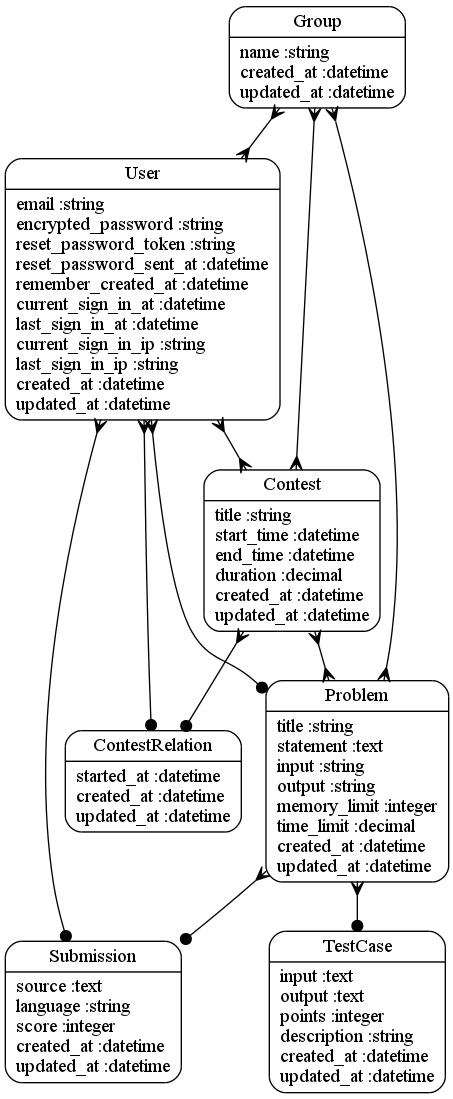
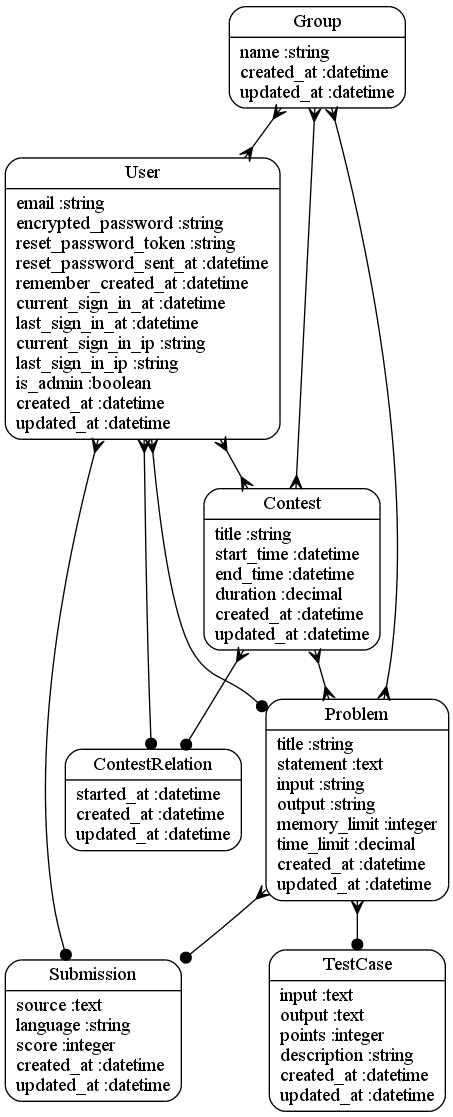
added admins

diff --git a/db/schema.rb b/db/schema.rb
@@ -89,8 +89,8 @@ ActiveRecord::Schema.define(:version => 20111002021523) do
   end
 
   create_table "users", :force => true do |t|
-    t.string   "email",                                 :default => "", :null => false
-    t.string   "encrypted_password",     :limit => 128, :default => "", :null => false
+    t.string   "email",                                 :default => "",    :null => false
+    t.string   "encrypted_password",     :limit => 128, :default => "",    :null => false
     t.string   "reset_password_token"
     t.datetime "reset_password_sent_at"
     t.datetime "remember_created_at"
@@ -99,7 +99,7 @@ ActiveRecord::Schema.define(:version => 20111002021523) do
     t.datetime "last_sign_in_at"
     t.string   "current_sign_in_ip"
     t.string   "last_sign_in_ip"
-    t.boolean  "is_admin"
+    t.boolean  "is_admin",                              :default => false
     t.datetime "created_at"
     t.datetime "updated_at"
   end

diff --git a/app/models/user.rb b/app/models/user.rb
@@ -5,7 +5,7 @@ class User < ActiveRecord::Base
          :recoverable, :rememberable, :trackable, :validatable
 
   # Setup accessible (or protected) attributes for your model
-  attr_accessible :email, :password, :password_confirmation, :remember_me
+  attr_accessible :email, :password, :password_confirmation, :remember_me, :is_admin
 
   has_many :problems
   has_many :submissions

diff --git a/config/routes.rb b/config/routes.rb
@@ -13,9 +13,9 @@ NztrainV2::Application.routes.draw do
 
   resources :test_cases
 
-  #resources :users
+  resources :users
 
-  devise_for :users
+  devise_for :users, :path => "accounts"
 
   match 'problem_contest/:action(:format)' => "problem_contest"
 

diff --git a/db/migrate/20110819224757_devise_create_users.rb b/db/migrate/20110819224757_devise_create_users.rb
@@ -6,7 +6,7 @@ class DeviseCreateUsers < ActiveRecord::Migration
       t.rememberable
       t.trackable
       
-      t.boolean :is_admin
+      t.boolean :is_admin, :default => false
 
       # t.encryptable
       # t.confirmable
